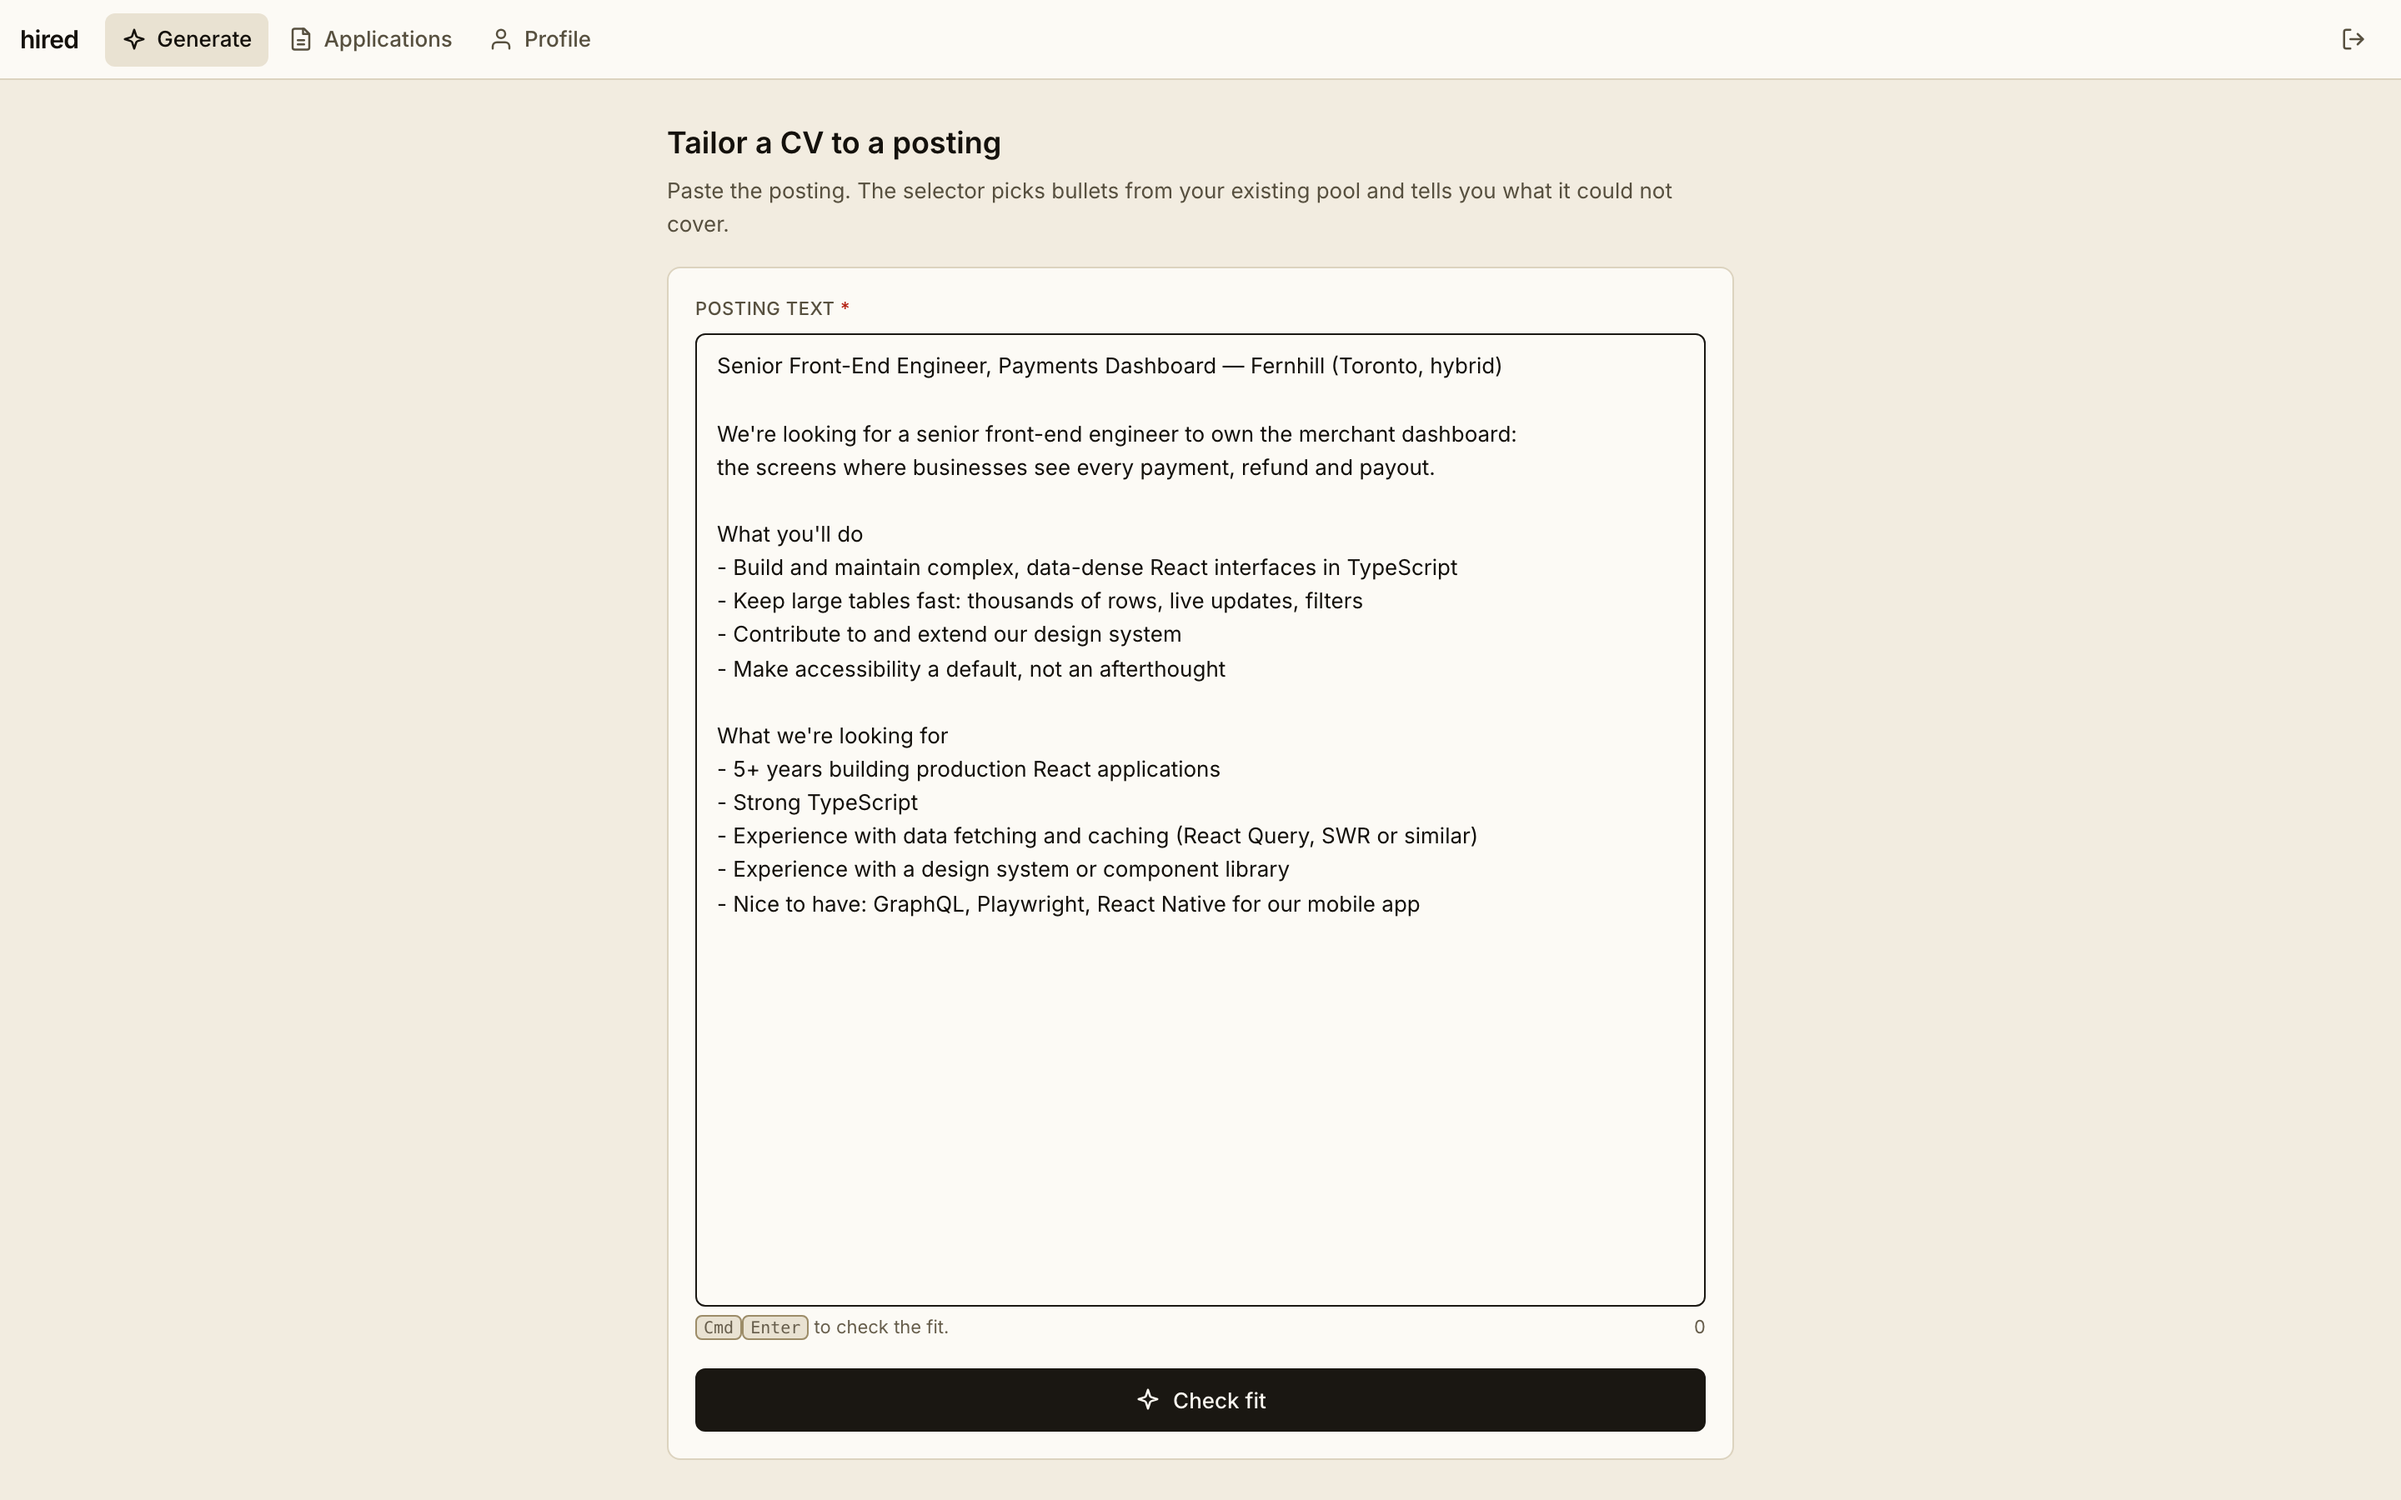
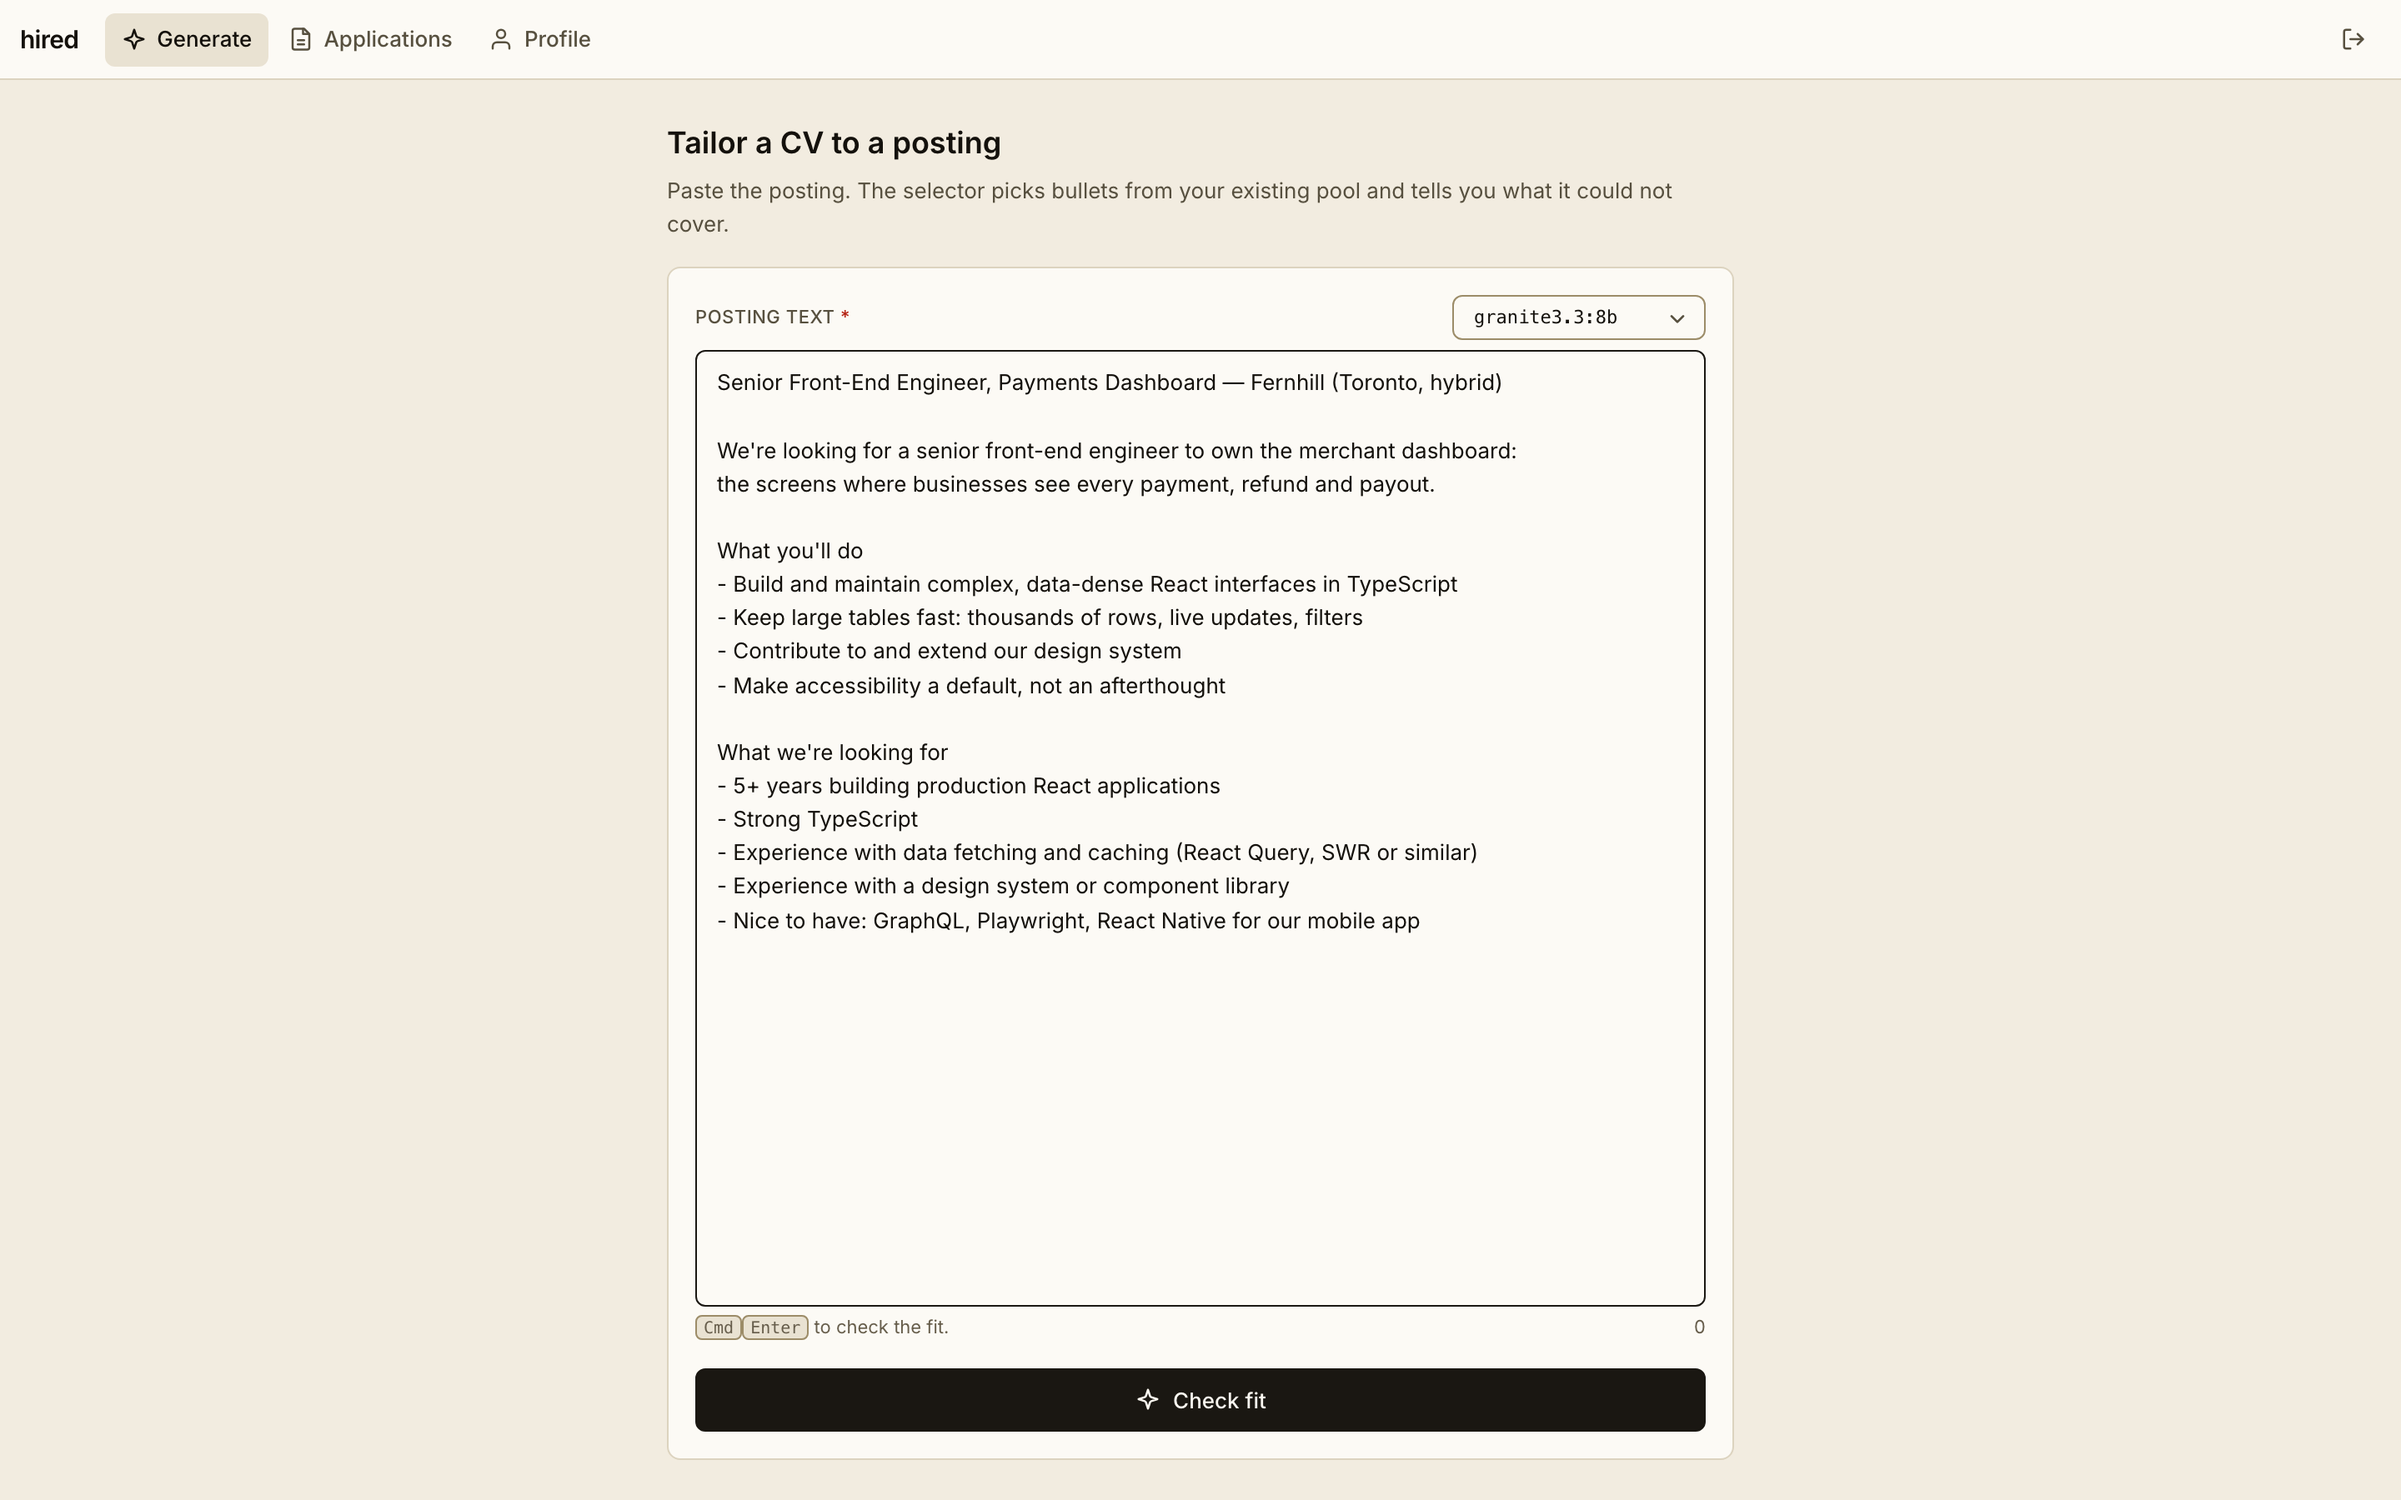
Landing: screenshots of the model picker and the application detail
Recaptured from the current build. The picker only renders with two or more
models, so capture.py offers the four measured ones and stamps each fake
answer with the picked name. A new detail.png shows a sent application,
and the tour gains a sixth step for it.

The demo accessibility bullet now says "accessibility", since coverage is
read off the words on the page and WCAG alone left it unbacked.

Changed region(s): [[0.2812, 0.1867, 0.6875, 0.6222]]

diff --git a/landing/demo/capture.py b/landing/demo/capture.py
@@ -33,14 +33,24 @@ os.environ["HIRED_PASSWORD_HASH"] = hash_password(PASSWORD)
 import uvicorn  # noqa: E402
 from playwright.sync_api import sync_playwright  # noqa: E402
 
-from app import ask, demo, fit, generate  # noqa: E402
+from app import ask, demo, fit, generate, model  # noqa: E402
 from app.db import engine, init_db  # noqa: E402
 from app.main import app  # noqa: E402
 
 # One source for the demo data. This file used to carry its own copy, and the
 # two drifted the first time either was edited.
 JD = demo.JD
-fake = lambda prompt, schema, *_, **__: demo.answer(schema, prompt)  # noqa: E731
+# The picker only renders with two or more models, so offer the measured set.
+MODELS = ["granite3.3:8b", "qwen2.5:14b", "qwen3:8b", "gemini-3.6-flash"]
+model.available = fit.available = lambda _settings: MODELS
+
+
+def fake(prompt, schema, *_, **__):
+    # Named as the picked model, so the screens show which one answered.
+    model.served.set(model.pick.get() or MODELS[0])
+    return demo.answer(schema, prompt)
+
+
 fit.generate_json = fake
 generate.generate_json = fake
 ask.generate_json = fake
@@ -107,6 +117,13 @@ def main() -> None:
 
         page.goto(f"{URL}/applications")
         shot("applications")
+
+        # A saved application with its PDF, the screen a sent CV lives on.
+        rows = page.request.get(f"{URL}/api/applications").json()
+        sent = next(r for r in rows if r["has_pdf"] and r["status"] != "saved")
+        page.goto(f"{URL}/applications/{sent['id']}")
+        page.wait_for_timeout(1500)  # the PDF preview renders after the page
+        shot("detail")
 
         page.goto(f"{URL}/profile")
         shot("profile")

diff --git a/landing/demo/master.md b/landing/demo/master.md
@@ -111,7 +111,7 @@ bullets:
   - id: ledgerline-a11y
     priority: 2
     tags: [accessibility, frontend]
-    text: Brought the invoice editor to WCAG 2.2 AA, fixing 63 audit findings across keyboard and screen-reader paths.
+    text: Brought the invoice editor to WCAG 2.2 AA, fixing 63 accessibility audit findings across keyboard and screen-reader paths.
     metric:
       value: '63'
       source: measured
